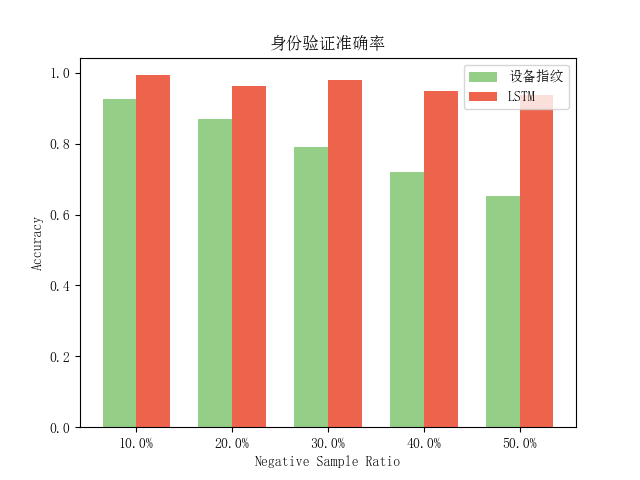
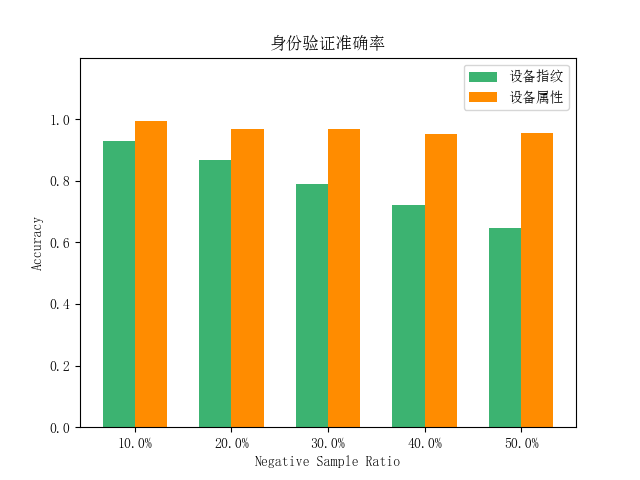
perf：revise figure

diff --git a/devicefinger_test.py b/devicefinger_test.py
@@ -231,45 +231,46 @@ def main():
         print(f"误判率: {false_positive_rate}")
         print()
 
-    # 画设备指纹和LSTM准确率柱状图
+   
     fig, ax = plt.subplots()
 
-    bar_width = 0.35  # 柱子的宽度
-    index = np.arange(len(negative_ratios))  # 每个比例的索引
-
+    bar_width = 0.1  # 柱子的宽度
+    index = np.arange(len(negative_ratios)) * 0.3  # 每个比例的索引
+    print("index=",index)
     ft_accs = [result[1] for result in results]
     lstm_accs = [result[2] for result in results]
 
-    ax.bar(index - bar_width, ft_accs, bar_width, label='设备指纹', color='#94CE87')  # 向左移动bar_width
-    ax.bar(index, lstm_accs, bar_width, label='LSTM', color='#EE634B')  # 原始位置
 
+    # 画设备指纹和LSTM准确率柱状图
+    ax.bar(index - bar_width, ft_accs, bar_width, label='设备指纹', color='#3CB371')  # 向左移动bar_width
+    ax.bar(index, lstm_accs, bar_width, label='设备属性', color='#FF8C00')  # 原始位置
     ax.set_xlabel('Negative Sample Ratio')
     ax.set_ylabel('Accuracy')
     ax.set_title('身份验证准确率')
     ax.set_xticks(index - bar_width / 2)  # 调整xticks的位置
     ax.set_xticklabels([f'{ratio:.1%}' for ratio in negative_ratios])  # 格式化横坐标标签为百分比
-    ax.legend(['设备指纹', 'LSTM'], loc='upper right')
-
+    ax.set_ylim(top=ax.get_ylim()[1] * 1.15)  # 调整纵坐标轴的最大值离纵坐标最上方的距离:将最大值上移15%
+    # midpoint = index[len(index) // 2] 
+    # ax.legend(['设备指纹', '设备属性'], loc='upper center', bbox_to_anchor=(0.83, 1))
+    ax.legend(['设备指纹', '设备属性'], loc='upper right')
     plt.rcParams['font.sans-serif'] = ['SimSun']  # 设置中文字体为宋体
     plt.rcParams['axes.unicode_minus'] = False  # 解决负号显示问题
     plt.savefig('./results/accuracy_comparison_bar.png')
     plt.show()
 
+
     # 画误判率柱状图
     fig, ax = plt.subplots()
-
     false_positive_rates = [(1-result[3]) for result in results]
-
-    ax.bar(index - bar_width, ft_false_positive_rates, bar_width, label='设备指纹', color='#94CE87')  # 原始位置
-    ax.bar(index , false_positive_rates, bar_width, label='LSTM', color='#EE634B')  # 向左移动bar_width
-
+    ax.bar(index - bar_width, ft_false_positive_rates, bar_width, label='设备指纹', color='#3CB371')  # 原始位置
+    ax.bar(index , false_positive_rates, bar_width, label='设备属性', color='#FF8C00')  # 向左移动bar_width
     ax.set_xlabel('Negative Sample Ratio')
     ax.set_ylabel('False Positive Rate')
     ax.set_title('伪造设备检出率')
     ax.set_xticks(index - bar_width / 2)  # 调整xticks的位置
     ax.set_xticklabels([f'{ratio:.1%}' for ratio in negative_ratios])  # 格式化横坐标标签为百分比
-    ax.legend(['设备指纹', 'LSTM'], loc='upper right')
-
+    ax.set_ylim(top=ax.get_ylim()[1] * 1.15)  # 调整纵坐标轴的最大值离纵坐标最上方的距离:将最大值上移15%
+    ax.legend(['设备指纹', '设备属性'], loc='upper right')
     plt.rcParams['font.sans-serif'] = ['SimSun']  # 设置中文字体为宋体
     plt.rcParams['axes.unicode_minus'] = False  # 解决负号显示问题
     plt.savefig('./results/false_positive_rate_bar.png')
@@ -277,3 +278,4 @@ def main():
 
 if __name__ == "__main__":
     main()
+
